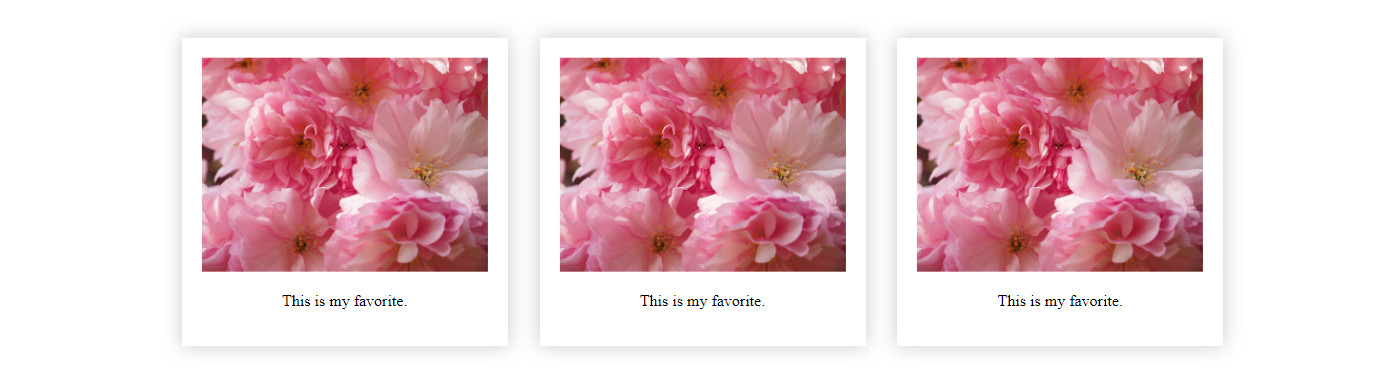
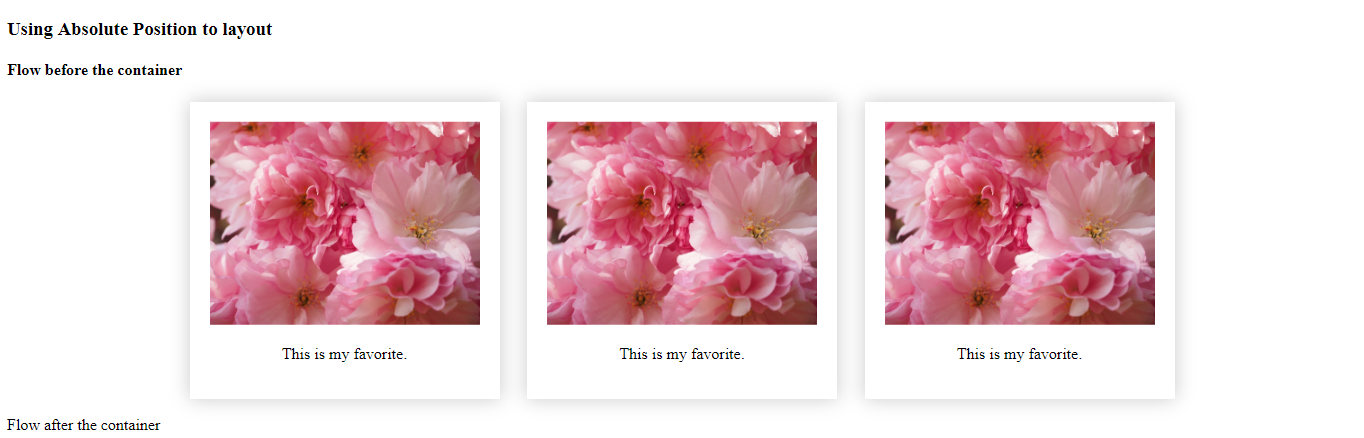
add images

diff --git a/index.html b/index.html
@@ -29,7 +29,7 @@
 
         .card-container {
             display: grid;
-            grid-template-columns: auto auto auto;
+            grid-template-columns: auto auto auto auto;
             justify-items: center;
 
         }
@@ -44,65 +44,55 @@
     <div class="card-container">
         <div class="w3-card-4 w3-blue description">
             <p>
-                <a href="absolute.html">absolute</a>
+                <a href="table.html" target="_blank">table element</a>
             </p>
         </div>
         <div class="w3-card-4 w3-blue description">
             <p>
-                <a href="body-center.html">body-center</a>
+                <a href="css-table.html" target="_blank">css-table</a>
+            </p>
+        </div>
+        <div class="w3-card-4 w3-blue description">
+                <p>
+                    <a href="float.html" target="_blank">float</a>
+                </p>
+            </div>
+        <div class="w3-card-4 w3-blue description">
+            <p>
+                <a href="absolute.html" target="_blank">absolute</a>
+            </p>
+        </div>
+        <div class="w3-card-4 w3-blue description">
+                <p>
+                    <a href="inline-block.html" target="_blank">inline-block</a>
+                </p>
+            </div>
+       
+        <div class="w3-card-4 w3-blue description">
+            <p>
+                <a href="bootstrap4-grid-system.html" target="_blank">bootstrap4-grid-system</a>
+            </p>
+        </div>
+
+        <div class="w3-card-4 w3-blue description">
+            <p>
+                <a href="flexbox.html" target="_blank">flexbox</a>
             </p>
         </div>
         <div class="w3-card-4 w3-blue description">
             <p>
-                <a href="bootstrap4-grid-system.html">bootstrap4-grid-system</a>
+                <a href="grid.html" target="_blank">grid</a>
             </p>
         </div>
-        <div class="w3-card-4 w3-blue description">
-            <p>
-                <a href="css-table.html">css-table</a>
-            </p>
-        </div>
-        <div class="w3-card-4 w3-blue description">
-            <p>
-                <a href="flexbox.html">flexbox</a>
-            </p>
-        </div>
-        <div class="w3-card-4 w3-blue description">
-            <p>
-                <a href="float.html">float</a>
-            </p>
-        </div>
-        <div class="w3-card-4 w3-blue description">
-            <p>
-                <a href="inline-block.html">inline-block</a>
-            </p>
-        </div>
+        <!-- <div class="w3-card-4 w3-blue description">
+                <p>
+                    <a href="body-center.html" target="_blank">body-center</a>
+                </p>
+            </div> -->
 
     </div>
 
-    <ul>
-        <li>
-            <a href="absolute.html">absolute</a>
-        </li>
-        <li>
-            <a href="body-center.html">body-center</a>
-        </li>
-        <li>
-            <a href="bootstrap4-grid-system.html">bootstrap4-grid-system</a>
-        </li>
-        <li>
-            <a href="css-table.html">css-table.html</a>
-        </li>
-        <li>
-            <a href="flexbox.html">flexbox</a>
-        </li>
-        <li>
-            <a href="float.html">float</a>
-        </li>
-        <li>
-            <a href="inline-block.html">inline-block</a>
-        </li>
-    </ul>
+    
 </body>
 
 </html>

diff --git a/absolute.html b/absolute.html
@@ -14,34 +14,44 @@
     <meta name="viewport" content="width=device-width, initial-scale=1">
     <link rel="stylesheet" href="">
     <style>
+        .flower-container {
+            position: relative;
+            height: 300px;
+        }
+
         .flower-container div {
             position: absolute;
+            top: 50%;
             transform: translate(-50%, -50%);
             width: 20%;
             padding: 20px;
             text-align: center;
             box-shadow: 0 0 30px rgba(0, 0, 0, 0.2);
         }
+
         .flower-container .one {
             left: 25%;
-            top: 50%;
         }
+
         div.two {
             left: 50%;
-            top: 50%;
         }
+
         div.three {
             left: 75%;
-            top: 50%;
         }
+
         .flower-container img {
             width: 100%;
         }
+    
     </style>
 </head>
 
 <body>
     <h3>Using Absolute Position to layout</h3>
+    <h4>Flow before the container</h4>
+
     <div class="flower-container">
         <div class="one">
             <img src="images/cherry_blossom.jpg" alt="Cherries">
@@ -56,6 +66,7 @@
             <p>This is my favorite.</p>
         </div>
     </div>
+    <p>Flow after the container</p>
 </body>
 
 </html>

diff --git a/inline-block.html b/inline-block.html
@@ -18,13 +18,11 @@
             text-align: center;
         }
 
-        .pic,
-        .text {
+        .pic {
             display: inline-block;
         }
 
         .pic img {
-            /*   height: 100%; */
             width: 25rem;
         }
     </style>
